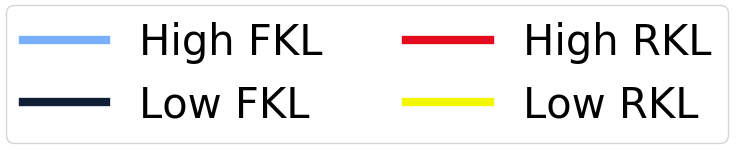
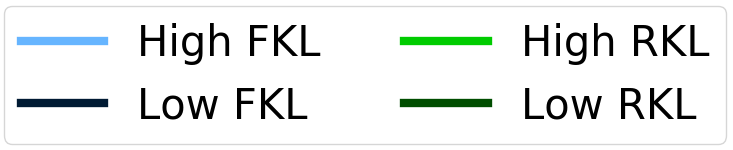
backup

diff --git a/experiments/continuous_deep_control/plot_scripts/plot_all_high_all_low_bar_uncompressed.py b/experiments/continuous_deep_control/plot_scripts/plot_all_high_all_low_bar_uncompressed.py
@@ -27,7 +27,7 @@ matplotlib.rcParams.update({'font.size': 50})
 parser = argparse.ArgumentParser()
 parser.add_argument("env_name", type=str)
 parser.add_argument("--stored_dir", type=str, default="my_results/normal_sweeps/joint_rkl_fkl/_uncompressed_results")
-parser.add_argument("--output_plot_dir", type=str, default="my_results/normal_sweeps/joint_rkl_fkl/_plots/all_high_all_low")
+parser.add_argument("--output_plot_dir", type=str, default="my_results/normal_sweeps/joint_rkl_fkl/_plots/all_high_all_low_bar")
 parser.add_argument("--parse_type", type=str, default="entropy_scale")
 parser.add_argument("--root_dir", type=str, default="experiments/continuous_deep_control")
 parser.add_argument("--best_setting_type", type=str, default="top20", choices=["best","top20"])
@@ -36,7 +36,7 @@ args = parser.parse_args()
 
 show_plot = False
 
-agents = ['ForwardKL', 'ReverseKL']
+agents = ['ReverseKL','ForwardKL']
 markers = dict(zip( agents, [None, None] ))
 marker_sizes = dict(zip( agents, [15, 15] ))
 mews = dict(zip( agents, [3, 3] ))
@@ -125,55 +125,61 @@ for ag in agents:
             max_length = len(avg)
             print('agent: {}, max_length: {}'.format(ag, max_length))        
 
+_, ymin, ymax, yticks = get_xyrange(env_name)
+
 for ag in agents:
     for high_low_t in temp_types:
-        mean = np.mean( list(map(lambda k: k[0],  agent_results[ag][high_low_t])), axis=0 )
+        # mean = np.mean( list(map(lambda k: k[0],  agent_results[ag][high_low_t])), axis=0 )
 
         all_lc = np.stack(list(map(lambda k: k[1],  agent_results[ag][high_low_t])), axis=0)
 
-        unrolled_all_lc = np.reshape(all_lc, [-1, mean.shape[0]])
+        unrolled_all_lc = np.reshape(all_lc, [-1, all_lc.shape[-1]])
+        unrolled_all_lc = (unrolled_all_lc - ymin[0])/(ymax[0] - ymin[0])
 
-        combined_sterr = np.std(unrolled_all_lc, axis=0) / np.sqrt(unrolled_all_lc.shape[0])
+        len_ov_2 = int(unrolled_all_lc.shape[-1]/2)
+        all_auc = np.mean(unrolled_all_lc[:, len_ov_2:], axis=1)
+        mean = np.mean(all_auc)
+        combined_sterr = np.std(all_auc) / np.sqrt(all_auc.shape[0])
 
         agent_results[ag][high_low_t] = (mean, combined_sterr)
 
-plt.figure(figsize=(18, 12))
-
-_, ymin, ymax, yticks = get_xyrange(env_name)
-
-xmax = int(max_length)
-
-opt_range = range(0, xmax)
-xlimt = (0, xmax - 1)
-print('training xmax: {}'.format(xmax))
+plt.figure(figsize=(10, 12))
+width=0.05
+intra_offset = 0.03
+inter_offset = 0.06
 
 # Train Episode Rewards
-ylimt = (ymin[0], ymax[0])
 
+plt.ylim(bottom=0., top=1.)
 
-# Set axes labels
-xtick_step = int( (TOTAL_MIL_STEPS*1e6/X_AXIS_STEPS)/5  )
-tick = [o for o in opt_range[::xtick_step]]
-ticklabel = [ int((x * X_AXIS_STEPS)/X_FORMATING_STEPS)  for x in tick]
-plt.xticks(tick, ticklabel)
-
-plt.yticks(ticks=yticks)
-plt.xlim(xlimt)
-plt.ylim(ylimt)
+plt.gca().axes.get_xaxis().set_visible(False)
+plt.xlabel("")
+plt.ylabel("AUC @ 0.5")
+plt.locator_params(axis="y", nbins=4)
 
 handle_arr = []
 
-for jdx, ag in enumerate(agents):
-    for high_low_t in temp_types:
-
-        lc = agent_results[ag][high_low_t][0][:xmax]
-        se = agent_results[ag][high_low_t][1][:xmax]
-
-        mark_freq = xmax//30
-
-        plt.plot(opt_range, lc, color=colours[ag][high_low_t], linewidth=1.0, label=ag, marker=markers[ag], markevery=mark_freq, markersize=marker_sizes[ag], mew=mews[ag])
-        plt.fill_between(opt_range,  lc - se, lc + se, alpha=0.3, facecolor=colours[ag][high_low_t])
-
+for idx, ag in enumerate(agents):
+    avg_rewards = []
+    std_error = []
+    labels = np.array([-width/2. - intra_offset/2., width/2. + intra_offset/2.])
+    labels += float(idx)*(inter_offset + 2*width + intra_offset)
+    colors = []    
+    for all_high_all_low_t in temp_types:
+        el = agent_results[ag][all_high_all_low_t]
+        if "Forward" in ag:
+            basealg = "Forward"
+            name = "ForwardKL"
+        elif "Reverse" in ag:
+            basealg = "Reverse"
+            name = "ReverseKL"
+        avg_rewards.append(el[0])
+        std_error.append(el[1])
+        colors.append(colours[name][all_high_all_low_t])        
+    avg_rewards = np.array(avg_rewards)
+    std_error = np.array(std_error)
+    
+    plt.bar(labels, avg_rewards, yerr=std_error, color=colors, width=width)
 
 plt.subplots_adjust(bottom=0.17, left=0.2)
 
@@ -184,14 +190,11 @@ legend_elements = [Line2D([0], [0], linewidth = 6.0, marker=None, color=colours[
                   ]
 
 if show_plot:
-    plt.show()
-else:
-    map_xlabel = {100000: "Hundreds of Thousands", 1000: "Thousands"}
-    plt.xlabel('{} of Timesteps'.format(map_xlabel[X_FORMATING_STEPS]))
-    plt.ylabel("Average return").set_rotation(90)    
+    plt.show()  
+else:    
     #Unlabeled
-    plt.savefig(os.path.join(output_plot_dir, "{}_{}_comparison_unlabeled.png".format(env_name, parse_type)))
+    plt.savefig(os.path.join(output_plot_dir, "{}_{}_comparison_unlabeled.png".format(env_name, parse_type)),bbox_inches='tight')
     #Labeled
     # plt.title(env_name)
     plt.legend(handles=legend_elements, fontsize=30)
-    plt.savefig(os.path.join(output_plot_dir, "{}_{}_comparison.png".format(env_name, parse_type)))
+    plt.savefig(os.path.join(output_plot_dir, "{}_{}_comparison.png".format(env_name, parse_type)),bbox_inches='tight')

diff --git a/experiments/continuous_deep_control/plot_scripts/show_colormaps.py b/experiments/continuous_deep_control/plot_scripts/show_colormaps.py
@@ -18,16 +18,27 @@ my_cmap = matplotlib.colors.LinearSegmentedColormap('fkl_colormap',cdict,256)
 
 cmap_dict['ForwardKL'] = my_cmap
 
-def truncate_colormap(cmap, minval=0.65, maxval=.99, n=1000):
-    new_cmap = matplotlib.colors.LinearSegmentedColormap.from_list(
-        'trunc({n},{a:.2f},{b:.2f})'.format(n=cmap.name, a=minval, b=maxval),
-        cmap(np.linspace(minval, maxval, n)))
-    return new_cmap
+# def truncate_colormap(cmap, minval=0.65, maxval=.99, n=1000):
+#     new_cmap = matplotlib.colors.LinearSegmentedColormap.from_list(
+#         'trunc({n},{a:.2f},{b:.2f})'.format(n=cmap.name, a=minval, b=maxval),
+#         cmap(np.linspace(minval, maxval, n)))
+#     return new_cmap
 
-jet_cmap = plt.get_cmap('jet')
-trunc_cmap = truncate_colormap(jet_cmap)
+# jet_cmap = plt.get_cmap('jet')
+# trunc_cmap = truncate_colormap(jet_cmap)
 
-cmap_dict['ReverseKL'] = trunc_cmap
+# cmap_dict['ReverseKL'] = trunc_cmap
+
+rcdict = {'red': ((0.0, 0.0, 0.0),
+                 (1.0, 204./255., 204./255.)),
+         'green': ((0.0, 51./255., 51./255.),
+                   (1.0, 255./255., 255./255.)),
+         'blue': ((0.0, 26./255., 26./255.),
+                  (1.0, 204./255., 204./255.))}
+
+my_rcmap = matplotlib.colors.LinearSegmentedColormap('rkl_colormap',rcdict,256)
+
+cmap_dict['ReverseKL'] = my_rcmap
 
 a=np.transpose(outer(arange(0,1,0.01),ones(5)), [1,0])
 

diff --git a/experiments/continuous_deep_control/plot_scripts/plot_entropy_comparison_uncompressed.py b/experiments/continuous_deep_control/plot_scripts/plot_entropy_comparison_uncompressed.py
@@ -84,7 +84,14 @@ temps = [1, 0.5, 0.1, 0.05, 0.01, 0.005, 0.001, 0.0]
 temps = sorted(temps)
 auc_ratio = 0.5
 colours = {"ForwardKL": None, "ReverseKL": None}
-rkl_colors = [cm.jet(0.65 + (.99 - 0.65) * ix / len(temps)) for ix in range(len(temps))]
+
+rkl_colors = [None for _ in range(len(temps))]
+initial_rkl_color = np.array((0, 51, 26))/255.
+final_rkl_color = np.array((204, 255, 204))/255.
+for s_t_idx, s_temp in enumerate(sorted(temps)):
+    t = float(s_t_idx)/(len(temps) - 1)
+    color = initial_rkl_color*(1-t) + t*final_rkl_color
+    rkl_colors[ temps.index(s_temp) ] = color  
 
 fkl_colors = [None for _ in range(len(temps))]
 initial_fkl_color = np.array((0, 26, 51))/255.

diff --git a/experiments/continuous_deep_control/plot_scripts/legend_only.py b/experiments/continuous_deep_control/plot_scripts/legend_only.py
@@ -5,8 +5,8 @@ import numpy as np
 import matplotlib.pyplot as plt
 import matplotlib.ticker as ticker
 
-initial_rkl_color = cm.jet(0.65)
-final_rkl_color = cm.jet(0.9)
+initial_rkl_color = np.array((0, 77, 0))/255.
+final_rkl_color = np.array((0, 204, 0))/255.
 
 initial_fkl_color = np.array((0, 26, 51))/255.
 final_fkl_color = np.array((102, 181, 255))/255.
@@ -24,5 +24,5 @@ legend_elements = [Line2D([0], [0], linewidth = 6.0, marker=None, color=colours[
 
 plt.axis('off')
 plt.legend(handles=legend_elements, fontsize=30, ncol=2)
-# plt.savefig('general_figs/legend.png',bbox_inches='tight')
-plt.show()
+plt.savefig('general_figs/legend__.png',bbox_inches='tight')
+# plt.show()

diff --git a/experiments/continuous_deep_control/plot_scripts/plot_sensitivity_uncompressed.py b/experiments/continuous_deep_control/plot_scripts/plot_sensitivity_uncompressed.py
@@ -216,7 +216,13 @@ for agent_name in agents:
 # Combined plots
 import matplotlib.cm as cm
 
-rkl_colors = [cm.jet(0.65 + (.99 - 0.65) * ix /float(len(temps)) ) for ix in range(len(temps))]
+rkl_colors = [None for _ in range(len(temps))]
+initial_rkl_color = np.array((0, 51, 26))/255.
+final_rkl_color = np.array((204, 255, 204))/255.
+for s_t_idx, s_temp in enumerate(sorted(temps)):
+    t = float(s_t_idx)/(len(temps) - 1)
+    color = initial_rkl_color*(1-t) + t*final_rkl_color
+    rkl_colors[ temps.index(s_temp) ] = color  
 
 fkl_colors = [None for _ in range(len(temps))]
 initial_fkl_color = np.array((0, 26, 51))/255.
